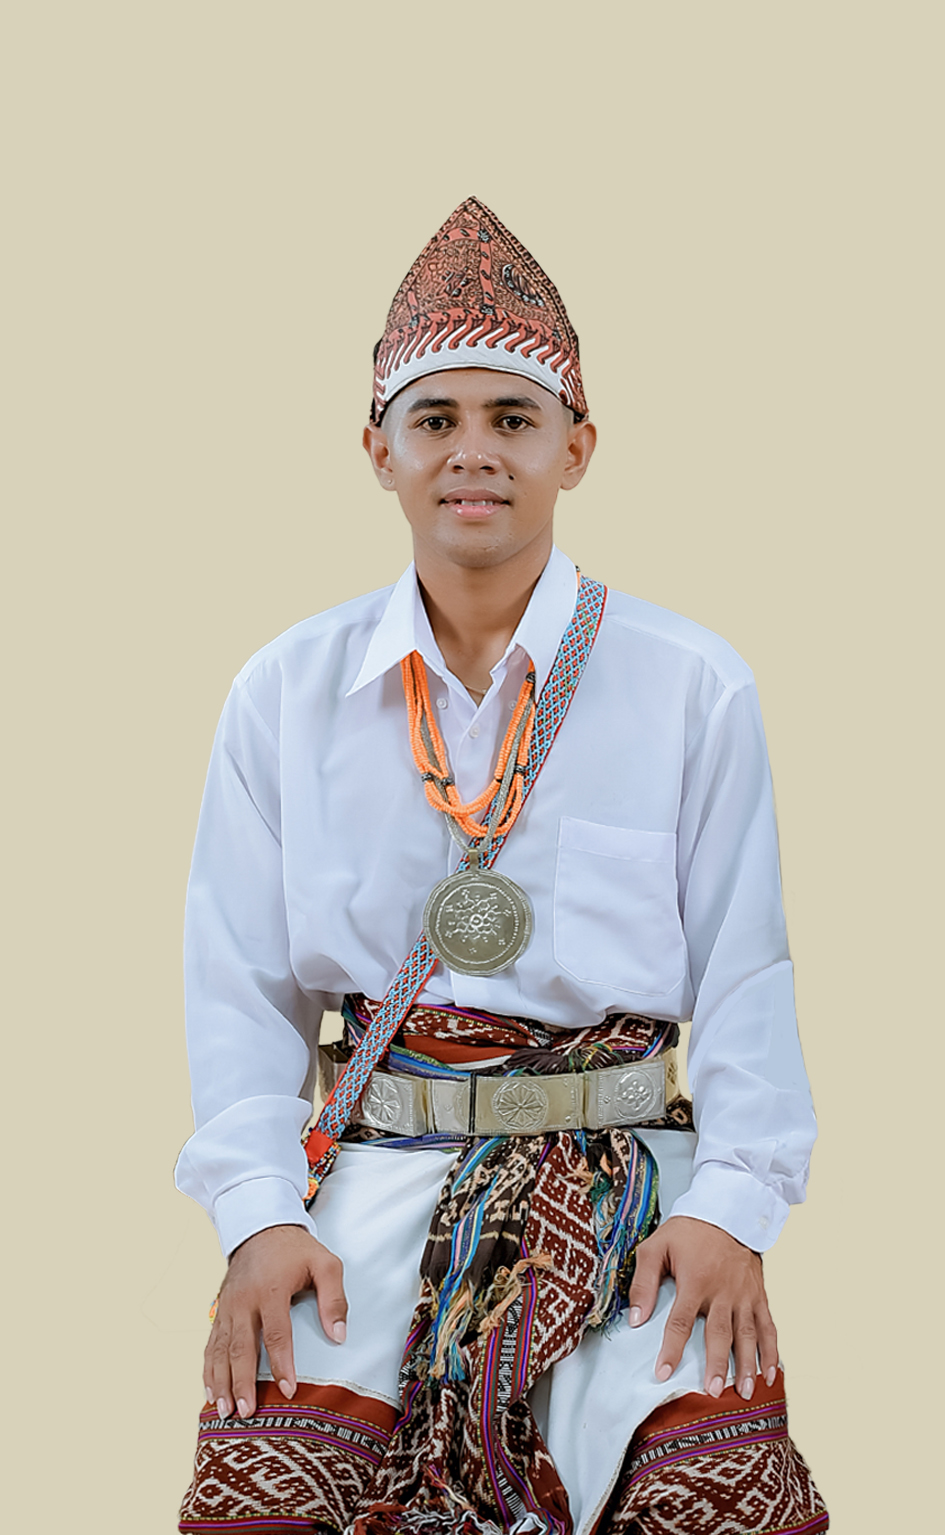
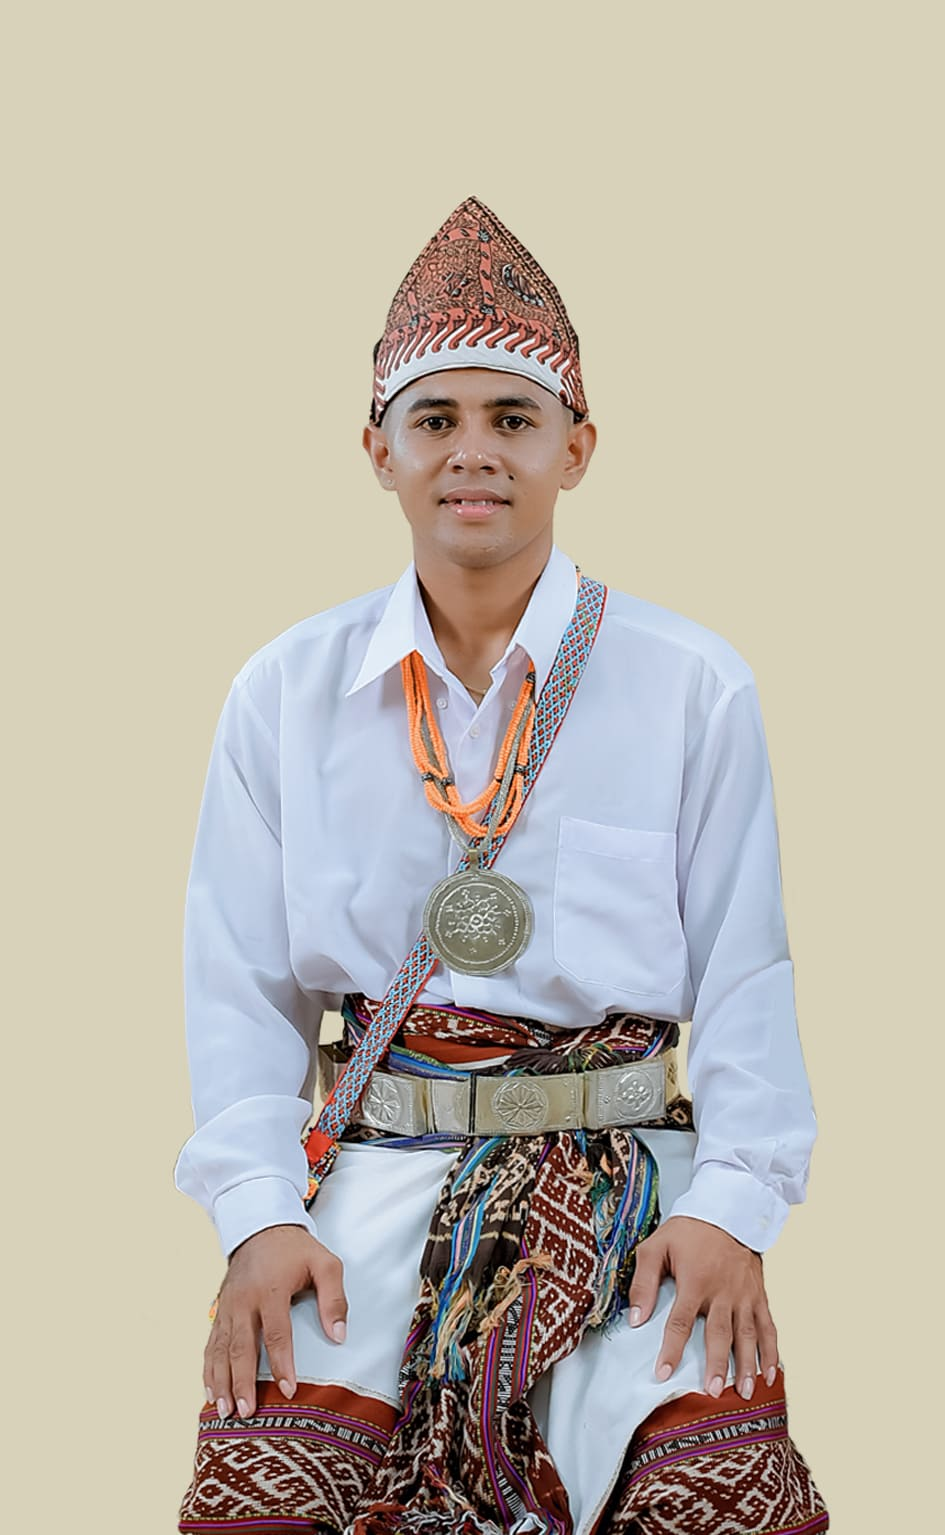
fix audio issues, compress images

diff --git a/src/components/StartAppButton.tsx b/src/components/StartAppButton.tsx
@@ -2,16 +2,17 @@
 
 import { useEffect, useRef, useState } from "react";
 import { Button } from "./ui/button";
-import { MdiHeart } from "./icons/mdi-heart";
-import { twMerge } from "tailwind-merge";
 
 type Props = {
   onClick: () => void;
 }
 
 export function StartAppButton({ onClick }: Props) {
-  const audioRef = useRef<HTMLAudioElement>(new Audio("/wedding-audio.mp3"))
-  const [ isPlaying, setPlaying ] = useState(false)
+  const audioRef = useRef<HTMLAudioElement | null>(null);
+  
+  useEffect(() => {
+    audioRef.current = typeof Audio === undefined ? null : new Audio("/wedding-audio.mp3");
+  }, []);
 
   return (
     <>
@@ -19,8 +20,6 @@ export function StartAppButton({ onClick }: Props) {
         onClick={() => {
           audioRef.current?.play()
             .then(r => {
-              console.log(r)
-              setPlaying(true)
               onClick()
             })
             .catch(err => {

diff --git a/src/components/ThanksSection.tsx b/src/components/ThanksSection.tsx
@@ -25,7 +25,7 @@ export function ThanksSection() {
           "absolute top-0 left-0 right-0 z-20 flex items-center justify-center flex-col text-white pt-8 px-4 md:px-0"
         )}
       >
-        <TypingAnimation className="text-primary text-3xl md:text-7xl" delay={1200} duration={50} startOnView={true}>Terimakasih</TypingAnimation>
+        <TypingAnimation className="text-primary text-3xl md:text-7xl" delay={50} duration={50} startOnView={true}>Terimakasih</TypingAnimation>
         <BlurFade delay={0.4} duration={1} inView>
           <p className="text-primary text-xs md:text-base text-center">Merupakan suatu kebahagiaan dan kehormatan bagi kami, apabila Bapak/Ibu/Saudara/i. berkenan hadir untuk memberi doa restu kepada kami.</p>
           <p className="text-primary text-xs md:text-base text-center">Atas kehadiran dan doa restunya kami ucapkan terima kasih</p>

diff --git a/src/components/HeroCover.tsx b/src/components/HeroCover.tsx
@@ -23,7 +23,7 @@ export function HeroCover({
         coverRef.current.style.display = "none";
       }
     }, 200)
-  }, [open])
+  }, [isOpen])
   return (
     <div
       ref={coverRef}
